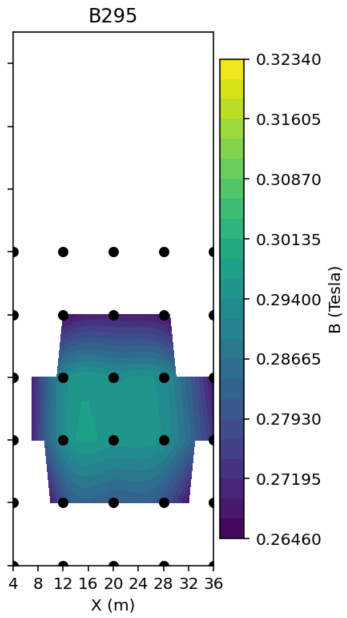
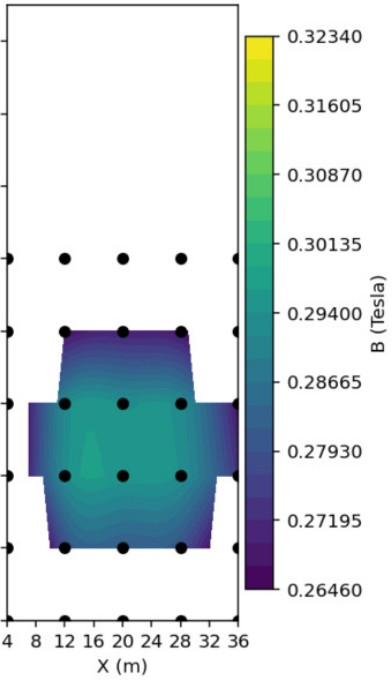
updated reademe

diff --git a/System_development/magnet_design/B300-20/README.md b/System_development/magnet_design/B300-20/README.md
@@ -11,19 +11,19 @@ The permanent magnet assembly uses:
 
 
   <div style="text-align: center;">
-    <img src="media/CAD_Model.PNG" width="400">
+    <img src="media/CAD_Model.jpg" width="400">
     <p>CAD model of the magnet design</p>
   </div>
 
   
   <div style="text-align: center;">
-    <img src="media/FEMSimulation.PNG" width="400">
+    <img src="media/FEMSimulation.jpg" width="400">
     <p>2D Finite element magneic model and simulation</p>
   </div>
 
   
   <div style="text-align: center;">
-    <img src="media/Polarization_Plot.PNG" width="400">
+    <img src="media/Polarization_Plot.jpg" width="400">
     <p>Polarization plot of the magnet</p>
   </div>
 </div>